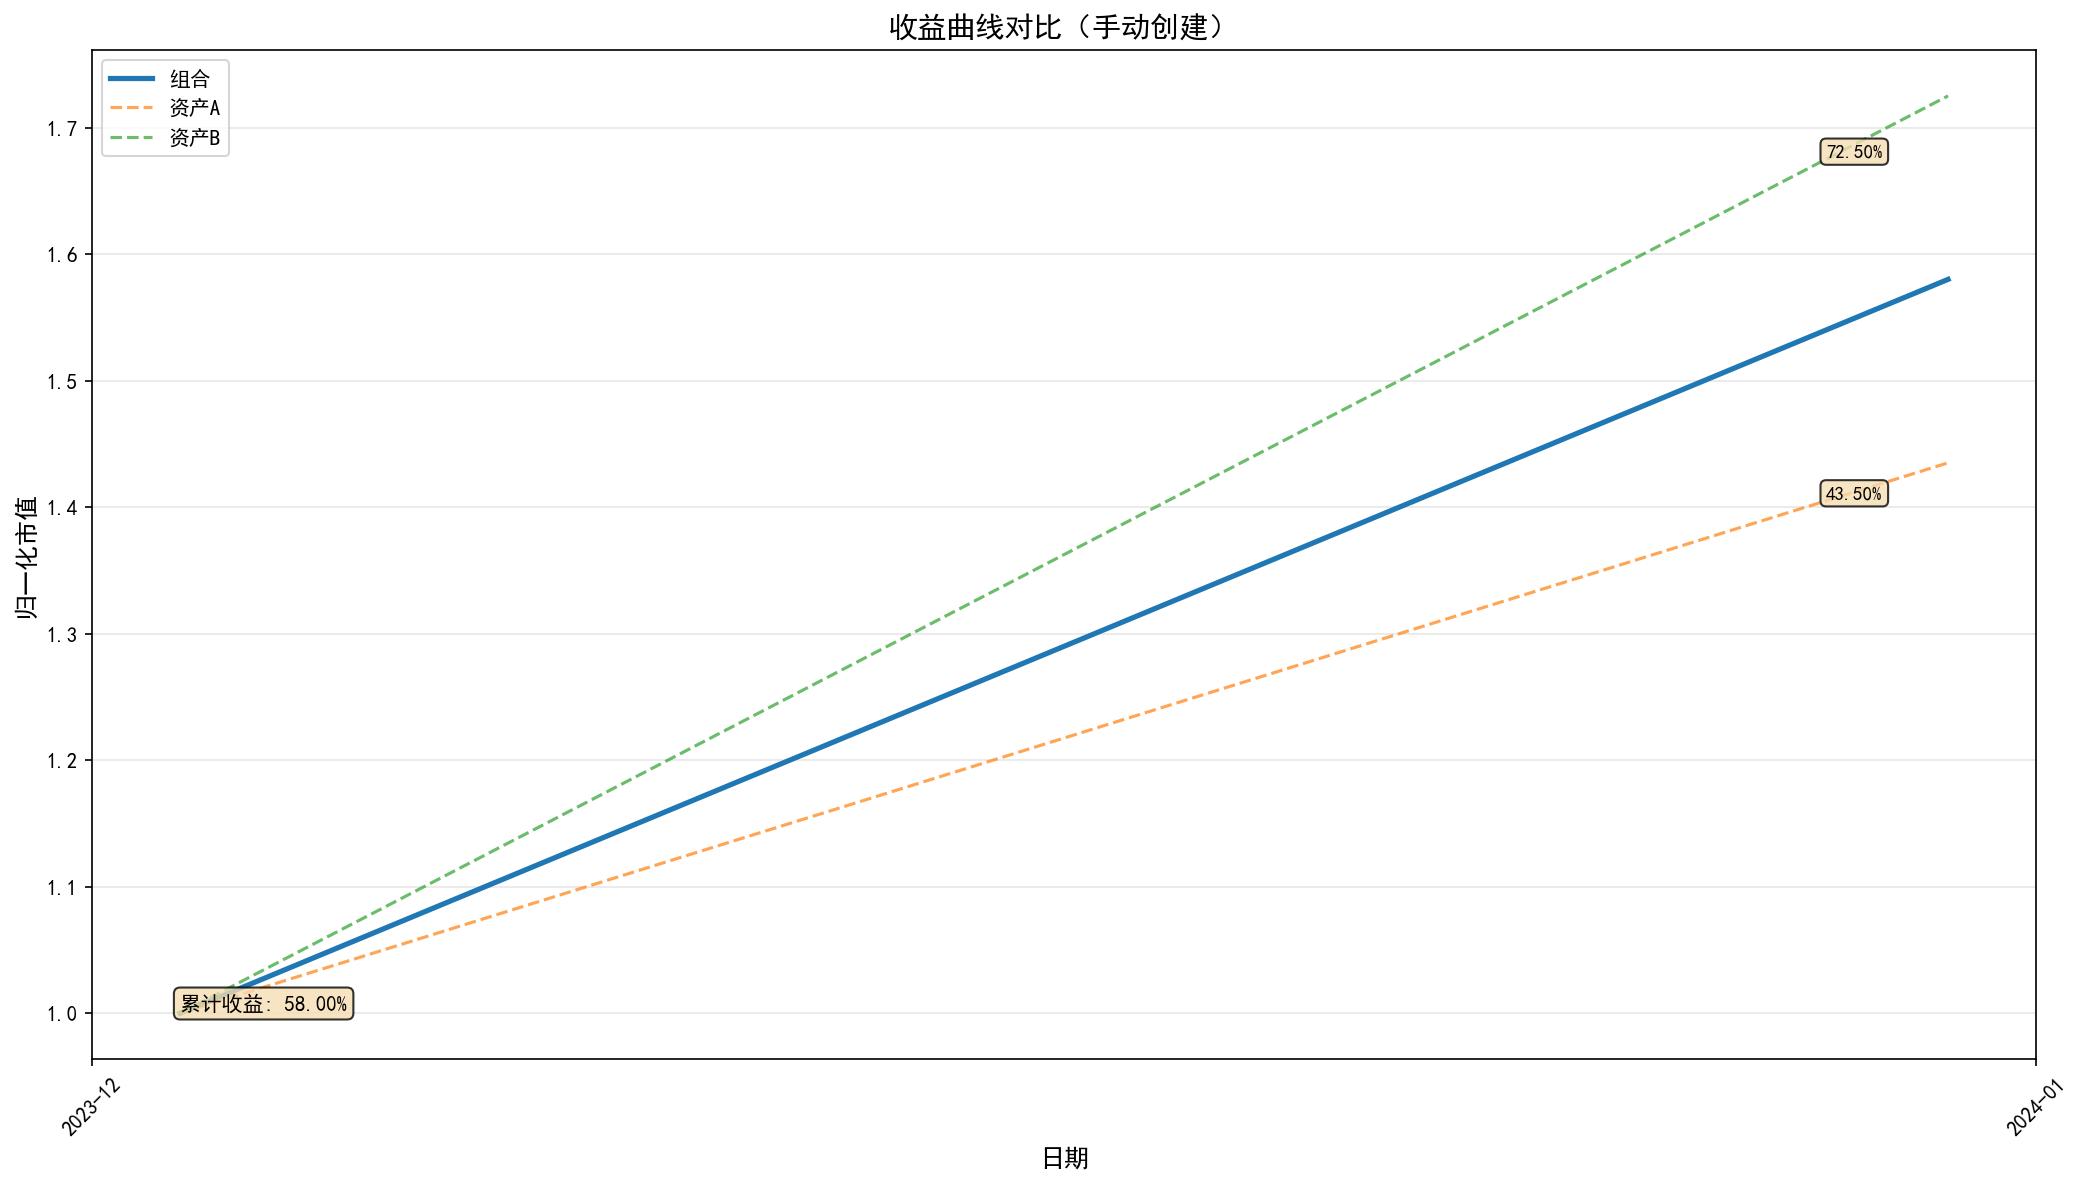
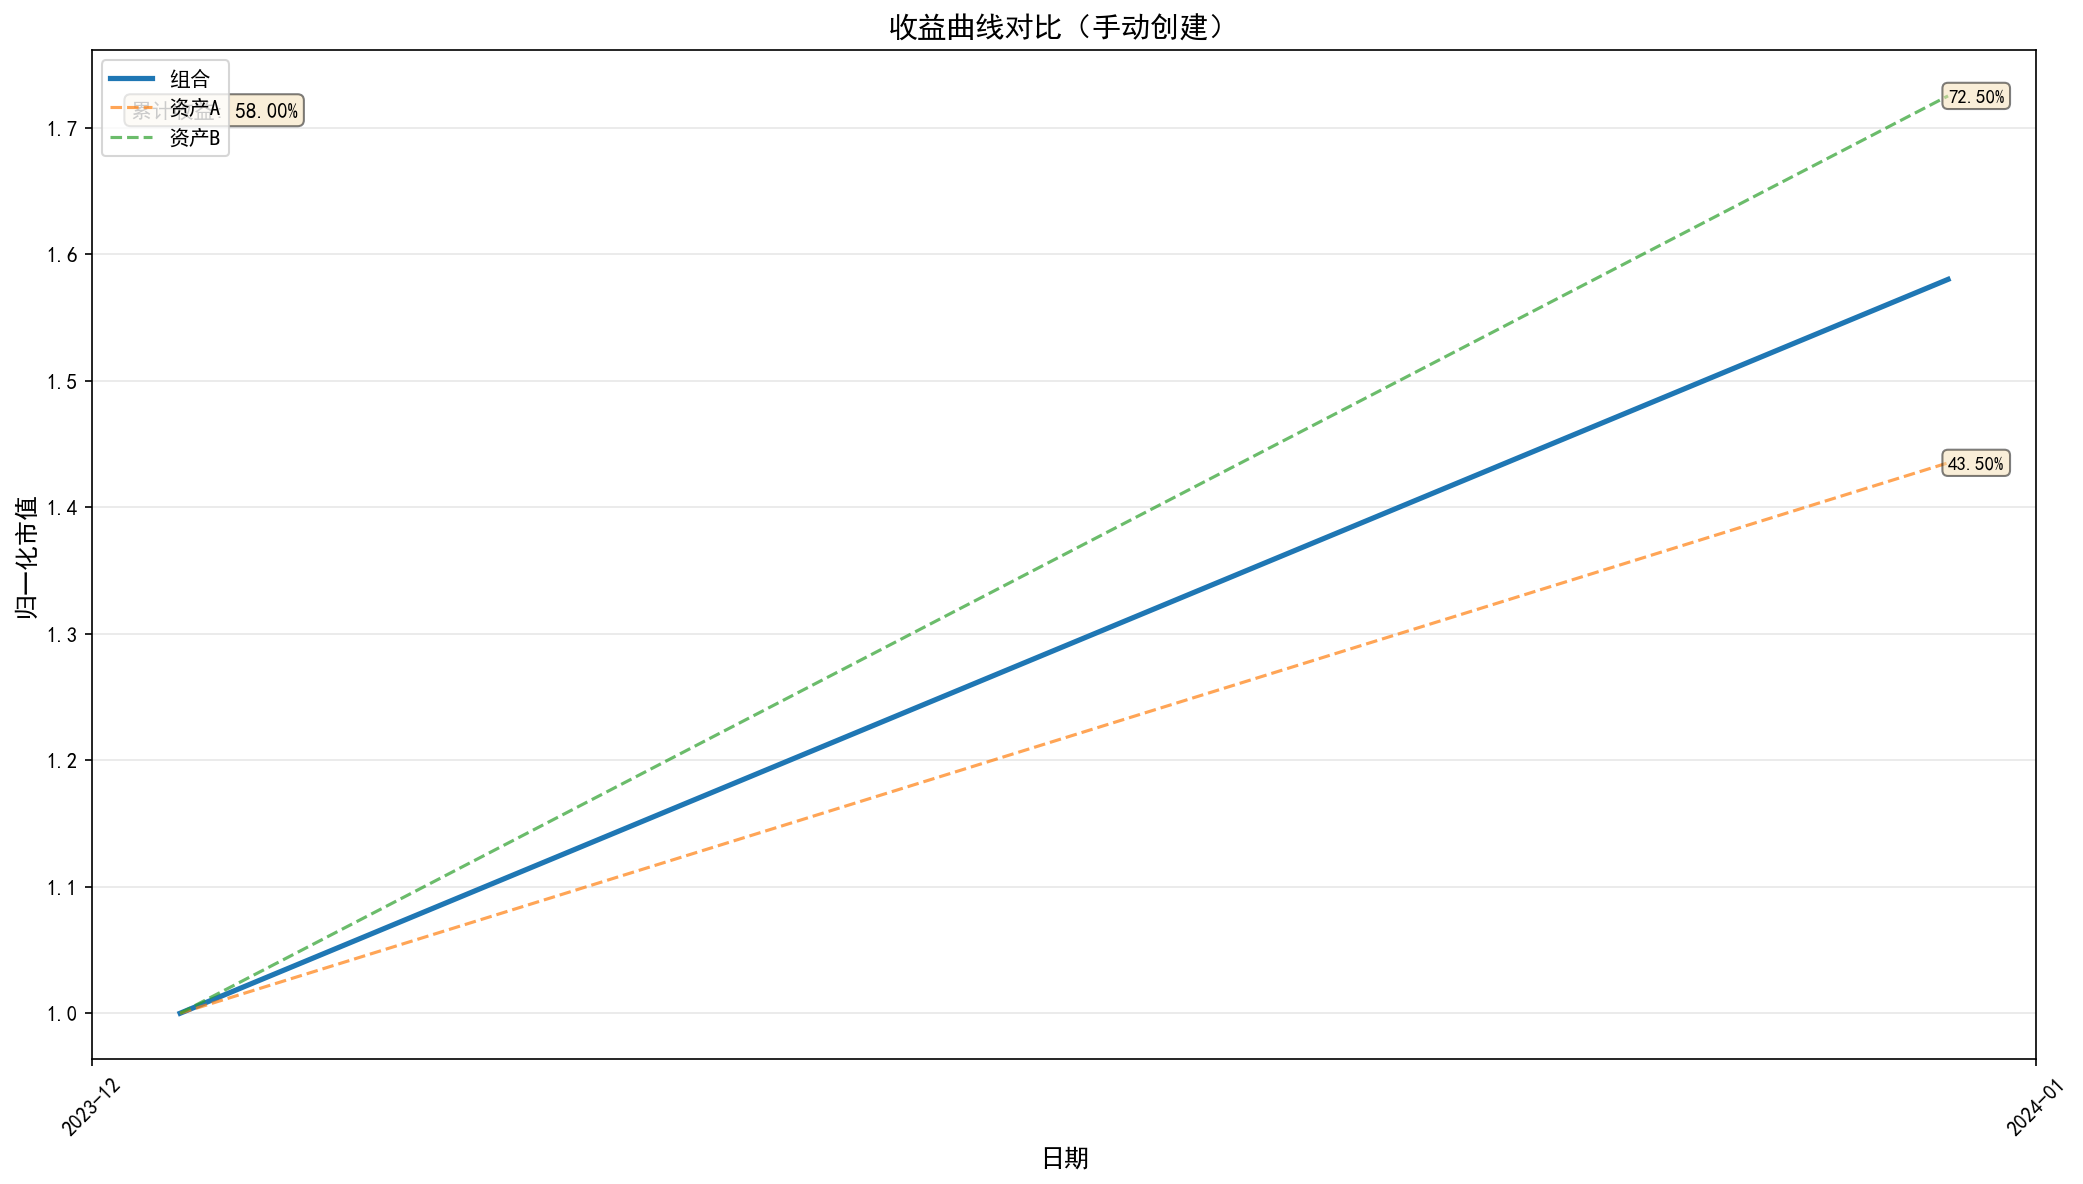
refactor: 优化图表标注位置与布局
- 资产标注改用数据坐标，Y值对齐曲线末端，X偏移半个日期间隔
- 组合曲线标注改为ASSET角色，统一贴在曲线末端右侧
- 左侧持仓比例框垂直居中(y=0.50)，新增年化收益和最大回撤
- 右上角组合指标简化为纯百分比数值(85.14%)
- _add_annotation根据SeriesRole智能选择坐标系统
- 验证逻辑兼容名为'组合'的ASSET系列作为组合曲线

diff --git a/src/domain/chart/services.py b/src/domain/chart/services.py
@@ -112,10 +112,8 @@ class ChartRenderer:
     
     @staticmethod
     def _add_annotation(ax, series: ChartSeries, annotation: Annotation):
-        """添加标注"""
-        # 计算标注位置（使用数据坐标）
-        x_idx = int(annotation.x_position * (len(series.dates) - 1))
-        y_value = float(series.values[x_idx])
+        """添加标注 - ASSET使用数据坐标贴在曲线末端右侧，其他使用轴坐标"""
+        import pandas as pd
         
         # 创建文本框样式
         bbox_props = {
@@ -124,17 +122,47 @@ class ChartRenderer:
             'alpha': annotation.bbox_alpha,
         }
         
-        ax.text(
-            series.dates[x_idx],
-            y_value,
-            annotation.text,
-            transform=ax.transData,
-            fontsize=annotation.fontsize,
-            fontweight=annotation.fontweight,
-            verticalalignment='bottom',
-            horizontalalignment='left',
-            bbox=bbox_props,
-        )
+        if series.role == SeriesRole.ASSET:
+            # 资产标注：使用数据坐标，贴在曲线最后一个点的右侧
+            # x_position 表示相对于最后两点间距的偏移比例
+            last_date = series.dates[-1]
+            last_value = float(series.values[-1])
+            
+            # 计算日期偏移（取相邻两点间距的固定比例作为向右偏移量）
+            if len(series.dates) >= 2:
+                date_range = (series.dates[-1] - series.dates[-2]).days
+                offset_days = int(date_range * annotation.x_position)
+                annot_x = last_date + pd.Timedelta(days=offset_days)
+            else:
+                annot_x = last_date
+            
+            ax.text(
+                annot_x,
+                last_value,
+                annotation.text,
+                transform=ax.transData,
+                fontsize=annotation.fontsize,
+                fontweight=annotation.fontweight,
+                verticalalignment='center',
+                horizontalalignment='left',
+                bbox=bbox_props,
+            )
+        else:
+            # 组合/基准标注：使用轴坐标
+            h_align = 'left' if annotation.x_position < 0.5 else 'right'
+            v_align = 'bottom' if annotation.y_position < 0.5 else 'top'
+            
+            ax.text(
+                annotation.x_position,
+                annotation.y_position,
+                annotation.text,
+                transform=ax.transAxes,
+                fontsize=annotation.fontsize,
+                fontweight=annotation.fontweight,
+                verticalalignment=v_align,
+                horizontalalignment=h_align,
+                bbox=bbox_props,
+            )
 
 
 class ChartFactory:
@@ -155,6 +183,7 @@ class ChartFactory:
         show_annotations: bool = True,
         annualized_return: Optional[Decimal] = None,
         max_drawdown: Optional[Decimal] = None,
+        asset_weights: Optional[Dict[str, Decimal]] = None,  # 各资产最新权重
     ) -> ChartConfig:
         """
         创建收益曲线对比图配置
@@ -175,6 +204,7 @@ class ChartFactory:
             show_annotations: 是否显示收益率标注
             annualized_return: 年化收益率（可选）
             max_drawdown: 最大回撤（可选，负值）
+            asset_weights: 各资产最新权重 {asset_code: weight}（可选）
             
         Returns:
             图表配置
@@ -185,6 +215,43 @@ class ChartFactory:
             ylabel="归一化市值",
         )
         
+        # 左侧添加资产权重标注（包含年化收益和最大回撤）
+        if asset_weights:
+            weight_lines = ["当前持仓比例:"]
+            for asset_code, weight in asset_weights.items():
+                # 从asset_data中获取资产名称
+                asset_name = asset_data.get(asset_code, {}).get('name', asset_code)
+                weight_lines.append(f"  {asset_name}: {float(weight):.1%}")
+            
+            # 添加年化收益和最大回撤到左侧
+            if annualized_return is not None:
+                weight_lines.append("")
+                weight_lines.append(f"年化收益: {float(annualized_return):.2%}")
+            if max_drawdown is not None:
+                weight_lines.append(f"最大回撤: {float(max_drawdown):.2%}")
+            
+            weight_text = "\n".join(weight_lines)
+            
+            # 创建一个虚拟系列来承载标注（不绘制曲线）
+            weight_series = ChartSeries(
+                name="_weight_annotation",
+                role=SeriesRole.BENCHMARK,
+                dates=portfolio_dates[:1],  # 只需要一个日期
+                values=[Decimal("1")],
+                style=ChartStyle(color="white", line_width=0.01, alpha=0.001),  # 极细几乎透明线，实际不可见
+                annotation=Annotation(
+                    text=weight_text,
+                    x_position=-0.02,  # 轴坐标：左边缘外2%
+                    y_position=0.50,   # 轴坐标：垂直居中
+                    fontsize=9,
+                    fontweight="normal",
+                    bbox_style="round,pad=0.3",
+                    bbox_facecolor="lightyellow",
+                    bbox_alpha=0.9,
+                ),
+            )
+            config.add_series(weight_series)
+        
         # 添加组合曲线（实线）
         portfolio_series = ChartSeries(
             name="组合",
@@ -194,30 +261,23 @@ class ChartFactory:
             style=ChartStyle.for_portfolio(),
         )
         
-        # 添加标注 - 包含累计收益、年化收益、最大回撤
-        # 移到右侧，避免遮挡曲线
+        # 添加标注 - 组合曲线标注贴在末端右侧（与资产标注规则一致）
         if show_annotations and portfolio_values:
             current_return = portfolio_values[-1] - Decimal("1")
             
-            # 构建多行标注文本
-            annotation_lines = [f"累计收益: {float(current_return):.2%}"]
-            if annualized_return is not None:
-                annotation_lines.append(f"年化收益: {float(annualized_return):.2%}")
-            if max_drawdown is not None:
-                annotation_lines.append(f"最大回撤: {float(max_drawdown):.2%}")
-            
-            annotation_text = "\n".join(annotation_lines)
+            # 只保留百分比数值，不带前缀
+            annotation_text = f"{float(current_return):.2%}"
             
             portfolio_series = ChartSeries(
                 name="组合",
-                role=SeriesRole.PORTFOLIO,
+                role=SeriesRole.ASSET,  # 改为ASSET角色，使用数据坐标渲染
                 dates=portfolio_dates,
                 values=portfolio_values,
                 style=ChartStyle.for_portfolio(),
                 annotation=Annotation(
                     text=annotation_text,
-                    x_position=0.98,  # 右侧（数据坐标比例）
-                    y_position=0.98,  # 顶部
+                    x_position=0.5,  # 向右偏移半个日期间隔
+                    y_position=0,    # Y值由渲染器自动取最后一个数据点
                     fontsize=10,
                     fontweight="bold",
                 ),
@@ -248,7 +308,7 @@ class ChartFactory:
                 style=ChartStyle.for_asset(asset_index),
             )
             
-            # 添加收益率标注
+            # 添加收益率标注（贴在曲线末端右侧）
             if show_annotations and asset_values_normalized:
                 asset_return = asset_values_normalized[-1] - Decimal("1")
                 asset_series = ChartSeries(
@@ -259,8 +319,8 @@ class ChartFactory:
                     style=ChartStyle.for_asset(asset_index),
                     annotation=Annotation(
                         text=f"{float(asset_return):.2%}",
-                        x_position=0.98,
-                        y_position=0.02 + asset_index * 0.08,
+                        x_position=0.5,  # 向右偏移半个日期间隔
+                        y_position=0,    # Y值由渲染器自动取最后一个数据点
                         fontsize=9,
                     ),
                 )
@@ -332,6 +392,18 @@ class ChartFactory:
             else:
                 max_drawdown = md
         
+        # 从回测结果提取最新资产权重（如果有）
+        asset_weights = None
+        if hasattr(backtest_result, 'daily_values'):
+            dv = backtest_result.daily_values
+            weight_cols = [c for c in dv.columns if c.endswith('_weight')]
+            if weight_cols:
+                last_row = dv.iloc[-1]
+                asset_weights = {}
+                for col in weight_cols:
+                    asset_code = col.replace('_weight', '')
+                    asset_weights[asset_code] = Decimal(str(last_row[col]))
+        
         return ChartFactory.create_equity_curve_config(
             portfolio_dates=portfolio_dates,
             portfolio_values=portfolio_values,
@@ -340,4 +412,5 @@ class ChartFactory:
             show_annotations=True,
             annualized_return=annualized_return,
             max_drawdown=max_drawdown,
+            asset_weights=asset_weights,
         )

diff --git a/src/domain/chart/entities.py b/src/domain/chart/entities.py
@@ -103,7 +103,7 @@ class Annotation:
     fontweight: str = "normal"
     bbox_style: Optional[str] = "round,pad=0.3"
     bbox_facecolor: str = "wheat"
-    bbox_alpha: float = 0.8
+    bbox_alpha: float = 0.5
     
     def to_dict(self) -> Dict[str, Any]:
         """转换为字典"""
@@ -246,19 +246,24 @@ class ChartConfig:
         if not self.series_list:
             errors.append("至少需要一条曲线")
         
-        # 检查所有曲线的日期范围是否一致
+        # 检查所有曲线的日期范围是否一致（排除BENCHMARK角色，如纯标注系列）
         if len(self.series_list) > 1:
-            first_dates = set(self.series_list[0].dates)
-            for series in self.series_list[1:]:
-                series_dates = set(series.dates)
-                if first_dates != series_dates:
-                    errors.append(f"曲线'{series.name}'的日期范围与其他曲线不一致")
-                    break
+            data_series = [s for s in self.series_list if s.role != SeriesRole.BENCHMARK]
+            if len(data_series) > 1:
+                first_dates = set(data_series[0].dates)
+                for series in data_series[1:]:
+                    series_dates = set(series.dates)
+                    if first_dates != series_dates:
+                        errors.append(f"曲线'{series.name}'的日期范围与其他曲线不一致")
+                        break
         
-        # 检查是否有组合曲线
+        # 检查是否有组合曲线（PORTFOLIO角色或名为"组合"的ASSET系列）
         portfolio_series = self.get_series_by_role(SeriesRole.PORTFOLIO)
         if not portfolio_series:
-            errors.append("缺少组合曲线")
+            # 也接受名为"组合"的ASSET系列
+            combo_series = [s for s in self.series_list if s.name == "组合"]
+            if not combo_series:
+                errors.append("缺少组合曲线")
         
         return errors
     
